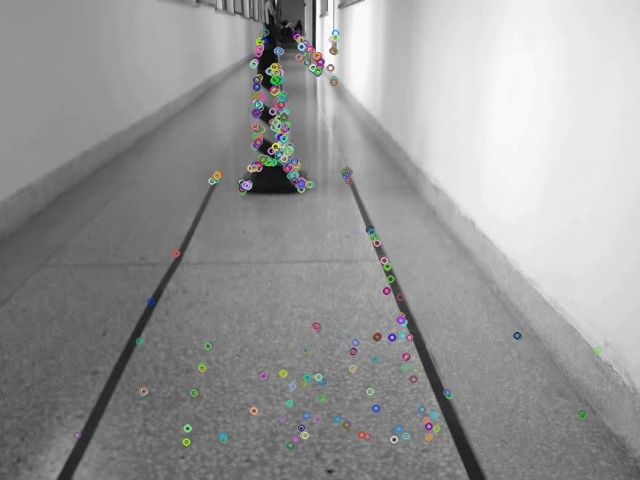
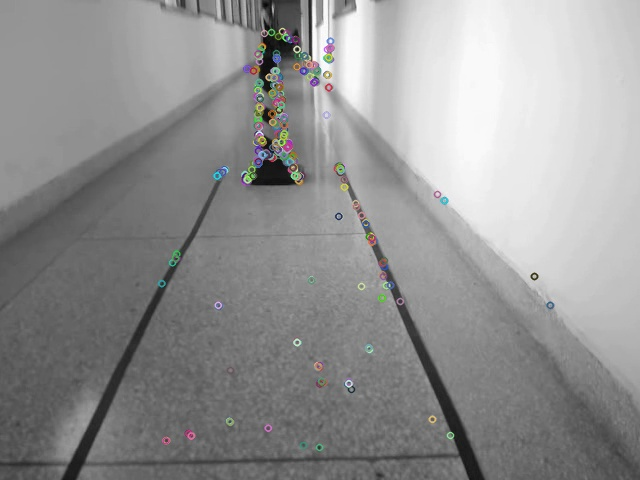
xiang_final

diff --git a/src/test_main.cpp b/src/test_main.cpp
@@ -1,30 +1,187 @@
-#include <iostream>
 #include <opencv2/opencv.hpp> 
-#include <opencv2/core/core.hpp>
-#include <opencv2/features2d/features2d.hpp>
-#include <opencv2/highgui/highgui.hpp>
-#include <mutex>
-// #include <chrono>
+#include "serial/Serial.h"
 
-using namespace std;
 using namespace cv;
-// #include "drive/drive.h"
-
-
 using namespace std;
 
-int main() 
+bool find_elude(vector<vector<Point>> contours);
+void sendto_car(bool,double,double,Serial);
+
+// #define SERIAL
+
+int main ()
 {
-    cout<<"begin!"<<endl;
-    Mat img_1;
-    Mat img_2;
-    img_1 = imread ("../data/start.jpg");
-    img_2 = imread ("../data/end.jpg");
+    Mat img,img_end,dst;
+    double dis_x, angle;
+    VideoCapture car_capture;
+    vector<vector<Point>> contours;
+	vector<Vec4i> hierarchy;
+    #ifdef SERIAL
+    Serial car_serial;
+    if(!car_serial.open("/dev/ttyUSB0",115200,0,8,1)) {
+        cout << "open port fail" << endl;
+        exit(-1);
+    }
+    #endif // !end SERIAL
+    RNG rng(0);
+    bool flag = false;
+    if(!car_capture.open("../data/test.mp4"))
+        cout << "video open fail!" << endl;
+    else
+        cout << "video open success!" << endl;
+    int HSV_int[4] = {120,210,140,50};
+    int HSVrange[6];
+    // img = imread("../data/end.jpg");
+    // imshow ("init",img);
+    // setMouseCallback("init", on_mouse, &img);
+    while (true) 
+    {
+        static int num = 0;
+        num ++ ;
+        car_capture>>img;
+        if(img.empty()){
+            break;;
+        }
+        if (num == 30)
+        {   
+            num = 0;
 
-    Mat imageROI=image(Rect(260,30,45,75))
+            //cout <<  img.size() <<endl;
+            //因为原图上方有相似色域的衣服的人，故去之调试
+            img=img(Rect(0,45,640,435));
+            // img = imread("../data/Image2.png");
+            if(img.channels()==3)
+                cvtColor(img, img, CV_RGB2HSV);
+            // imshow ("init",img);
+            HSVrange[0] = HSV_int[0] - HSV_int[3];
+            HSVrange[1] = HSV_int[0] + HSV_int[3];
+            HSVrange[2] = HSV_int[1] - HSV_int[3];
+            HSVrange[3] = HSV_int[1] + HSV_int[3];
+            HSVrange[4] = HSV_int[2] - HSV_int[3];
+            HSVrange[5] = HSV_int[2] + HSV_int[3];
 
-    imshow ("start.jpg",img_1);
-    imshow ("end.jpg",img_2);
-    cv::waitKey(0);
-    return 0;
+            inRange(img,Scalar(HSVrange[0],HSVrange[2],HSVrange[4]),
+                    Scalar(HSVrange[1],HSVrange[3],HSVrange[5]),img_end);
+            Mat kernel = getStructuringElement(MORPH_RECT, cv::Size(8, 8));
+            Mat kernel_open = getStructuringElement(MORPH_RECT, cv::Size(2, 2));
+            morphologyEx(img_end, img_end,MORPH_OPEN, kernel_open);
+            morphologyEx(img_end, img_end,MORPH_CLOSE, kernel);
+
+            // imshow ("end",img_end);
+            // waitKey(10);
+
+
+            findContours(img_end,contours,hierarchy,CV_RETR_EXTERNAL,CV_CHAIN_APPROX_NONE);
+	        // Mat imageContours=Mat::zeros(img_HSV.size(),CV_8UC1);
+
+            // cout << contours.size() <<endl;
+            img_end.copyTo(dst);
+            if (contours.size() == 3)
+            {
+                for(int i = 0; i < contours.size(); i++)
+                {
+                    Scalar color = Scalar(rng.uniform(0,255), rng.uniform(0,255), rng.uniform(0,255));
+                    drawContours(dst, contours, i, color, 2, 8, hierarchy, 0, Point(0,0));
+                }
+                //imshow("output",dst);
+                flag = find_elude(contours);
+                    
+                //waitKey(10);
+            }
+        }
+
+        /*
+        //此处填入车道线识别代码
+        */
+
+        #ifdef SERIAL
+        sendto_car(flag,dis_x,angle,car_serial);
+        #endif
+
+        //waitKey(10);
+    }
+    
+    //waitKey(0);
 }
+
+
+bool find_elude(vector<vector<Point>> contours)
+{
+
+    int x_max,y_max,x_min,y_min;
+    int x_max_temp,y_max_temp,x_min_temp,y_min_temp;
+    for(int i = 0; i < contours.size(); i++)
+    {  
+        vector<int> box_int_y;
+        vector<int> box_int_x;
+        for (int j=0; j<contours[i].size(); j++)
+        {
+            box_int_y.push_back(contours[i][j].y);
+            // cout << contours[i][j].y << endl;
+            // cout << contours[i][j].x << endl;
+            box_int_x.push_back(contours[i][j].x);
+        }
+        vector<int> vec = {-7, 1, 10, 7, 2, 1};
+        vector<int>::iterator x_itMax = max_element(box_int_x.begin(), box_int_x.end());
+        vector<int>::iterator x_itMin = min_element(box_int_x.begin(), box_int_x.end());
+        // cout << "最大值为：" << *x_itMax << " " << "所在位置：" << distance(box_int_x.begin(), x_itMax) << endl;
+        // cout << "最小值为：" << *x_itMin << " " << "所在位置：" << distance(box_int_x.begin(), x_itMin) << endl;
+        vector<int>::iterator y_itMax = max_element(box_int_y.begin(), box_int_y.end());
+        vector<int>::iterator y_itMin = min_element(box_int_y.begin(), box_int_y.end());
+        y_min_temp =  *y_itMin;
+        x_min_temp =  *x_itMin;
+        y_max_temp =  *y_itMax;
+        x_max_temp =  *x_itMax;
+        if (i == 0)
+        {
+            y_min = y_min_temp;
+            x_min = x_min_temp;
+            y_max = y_max_temp;
+            x_max = x_max_temp;     
+        }  
+        else    
+        {
+            if (y_min_temp < y_min) y_min = y_min_temp;
+            if (x_min_temp < x_min) x_min = x_min_temp;
+            if (y_max_temp > y_max) y_max = y_max_temp;
+            if (x_max_temp > x_max) x_max = x_max_temp;
+        }
+        vector<int>().swap(box_int_y);
+        vector<int>().swap(box_int_x);
+    }
+
+    // cout << "y_min" << y_min << endl
+    //     << "x_min" << x_min << endl
+    //     << "y_max" << y_max << endl
+    //     << "x_max" << x_max << endl;
+    //12000为人工测试距离，其意指当达到预判位置时路障色块所像素最小外接矩形大小
+    float distance = sqrt(12000)/(sqrt(((x_max - x_min) * (y_max - y_min))));
+    cout << "distance: " << distance<< endl;
+    if (distance <= 1)
+        return true;
+    else
+        return false;
+}
+
+void sendto_car(bool flag,double dis_x,double angle,Serial car_serial)
+{
+    unsigned short send_angle = angle + 32768;
+    unsigned short send_dis_x = dis_x + 32768;
+
+    unsigned char sendBuffer[7];
+    sendBuffer[0] = '#';
+    if (flag)
+        // 到达需要转向的距离
+        sendBuffer[1] = 'T';
+    else
+        // 未到达需要转向的距离
+        sendBuffer[1] = 'F';
+    sendBuffer[2] = (send_dis_x >> 8) & 0xff;
+    sendBuffer[3] = send_dis_x & 0xff;
+    sendBuffer[4] = (send_angle >> 8) & 0xff;
+    sendBuffer[5] = send_angle & 0xff;
+    sendBuffer[6] = '!';
+    car_serial.send(sendBuffer, sizeof(sendBuffer));
+}
+
+

diff --git a/src/elude/elude.cpp b/src/elude/elude.cpp
@@ -12,16 +12,14 @@ Eludeing::Eludeing(VideoCapture src):car_capture(src)
     // int fastTh = fSettings["ORBextractor.fastTh"];    
     // int Score = fSettings["ORBextractor.nScoreType"];
 
-    int nFeatures = 1000;
     float fScaleFactor = 1.2;
     int nLevels = 8;
     int fastTh = 20;    
     int Score = 1;
 
-    mpORBextractor = new ORBextractor(nFeatures,fScaleFactor,nLevels,Score,fastTh);
+    mpORBextractor = new ORBextractor(fScaleFactor,nLevels,Score,fastTh);
     
     cout << endl  << "ORB Extractor Parameters: " << endl;
-    cout << "- Number of Features: " << nFeatures << endl;
     cout << "- Scale Levels: " << nLevels << endl;
     cout << "- Scale Factor: " << fScaleFactor << endl;
     cout << "- Fast Threshold: " << fastTh << endl;
@@ -32,7 +30,7 @@ Eludeing::Eludeing(VideoCapture src):car_capture(src)
 
     // ORB extractor for initialization
     // Initialization uses only points from the finest scale level
-    mpIniORBextractor = new ORBextractor(nFeatures*2,1.2,8,Score,fastTh);    
+    mpIniORBextractor = new ORBextractor(1.2,1,Score,fastTh);    
 }
 
 void Eludeing::run()
@@ -55,15 +53,16 @@ void Eludeing::run()
 
     // // Mat img_1=img_1(Rect(260,30,50,80));
     // // car_capture>>img_1;
-    for (int i=0;i<30;i++)
-    {
-        car_capture>>img_1;
-    }
+    // for (int i=0;i<30;i++)
+    // {
+    //     car_capture>>img_1;
+    // }
+    img_1 = imread("../data/mask.jpg");
     if(img_1.channels()==3)
         cvtColor(img_1, img_1, CV_RGB2GRAY);
     // imwrite ("../data/start.jpg",img_1);
     if(mState==WORKING)
-        mCurrentFrame = Frame(img_1,mpORBextractor,mK);
+        mCurrentFrame = Frame(img_1,mpIniORBextractor,mK);
     Mat outimg1;
     drawKeypoints (img_1,mCurrentFrame.mvKeys,outimg1,Scalar::all(-1),DrawMatchesFlags::DEFAULT);
     imwrite ("../out/outimg1.jpg",outimg1);
@@ -119,7 +118,7 @@ void Eludeing::run()
 
     std::vector<DMatch> good_matches;
     for (int i=0;i<matches.size();i++){
-        if (matches[i].distance <= min(2*min_dist,20.0)){
+        if (matches[i].distance <= max(1.8*min_dist,10.0)){
             good_matches.push_back(matches[i]);
         }
     }

diff --git a/src/ORBextractor/ORBextractor.h b/src/ORBextractor/ORBextractor.h
@@ -20,7 +20,7 @@ public:
     
     enum {HARRIS_SCORE=0, FAST_SCORE=1 };
 
-    ORBextractor(int nfeatures = 1000, float scaleFactor = 1.2f, int nlevels = 8, int scoreType=FAST_SCORE, int fastTh = 20);
+    ORBextractor(float scaleFactor = 1.2f, int nlevels = 8, int scoreType=FAST_SCORE, int fastTh = 20);
 
     ~ORBextractor(){}
 
@@ -39,7 +39,6 @@ protected:
     void ComputePyramid(cv::Mat image);
     void ComputeKeyPoints(std::vector<std::vector<cv::KeyPoint> >& allKeypoints);
 
-    int nfeatures;
     double scaleFactor;
     int nlevels;
     int scoreType;

diff --git a/src/ORBextractor/ORBextractor.cpp b/src/ORBextractor/ORBextractor.cpp
@@ -1,8 +1,8 @@
 #include "ORBextractor.h"
 
-ORBextractor::ORBextractor(int _nfeatures, float _scaleFactor, int _nlevels, int _scoreType,
+ORBextractor::ORBextractor(float _scaleFactor, int _nlevels, int _scoreType,
          int _fastTh):
-    nfeatures(_nfeatures), scaleFactor(_scaleFactor), nlevels(_nlevels),
+    scaleFactor(_scaleFactor), nlevels(_nlevels),
     scoreType(_scoreType), fastTh(_fastTh)
 {
     mvScaleFactor.resize(nlevels);

diff --git a/src/elude/elude.h b/src/elude/elude.h
@@ -16,7 +16,8 @@
 using namespace std;
 using namespace cv;
 
-enum {WORKING=0,INiTIAL=1};
+enum {WORKING=0,INiTAIL=1};
+
 class Eludeing
 {
 public:
